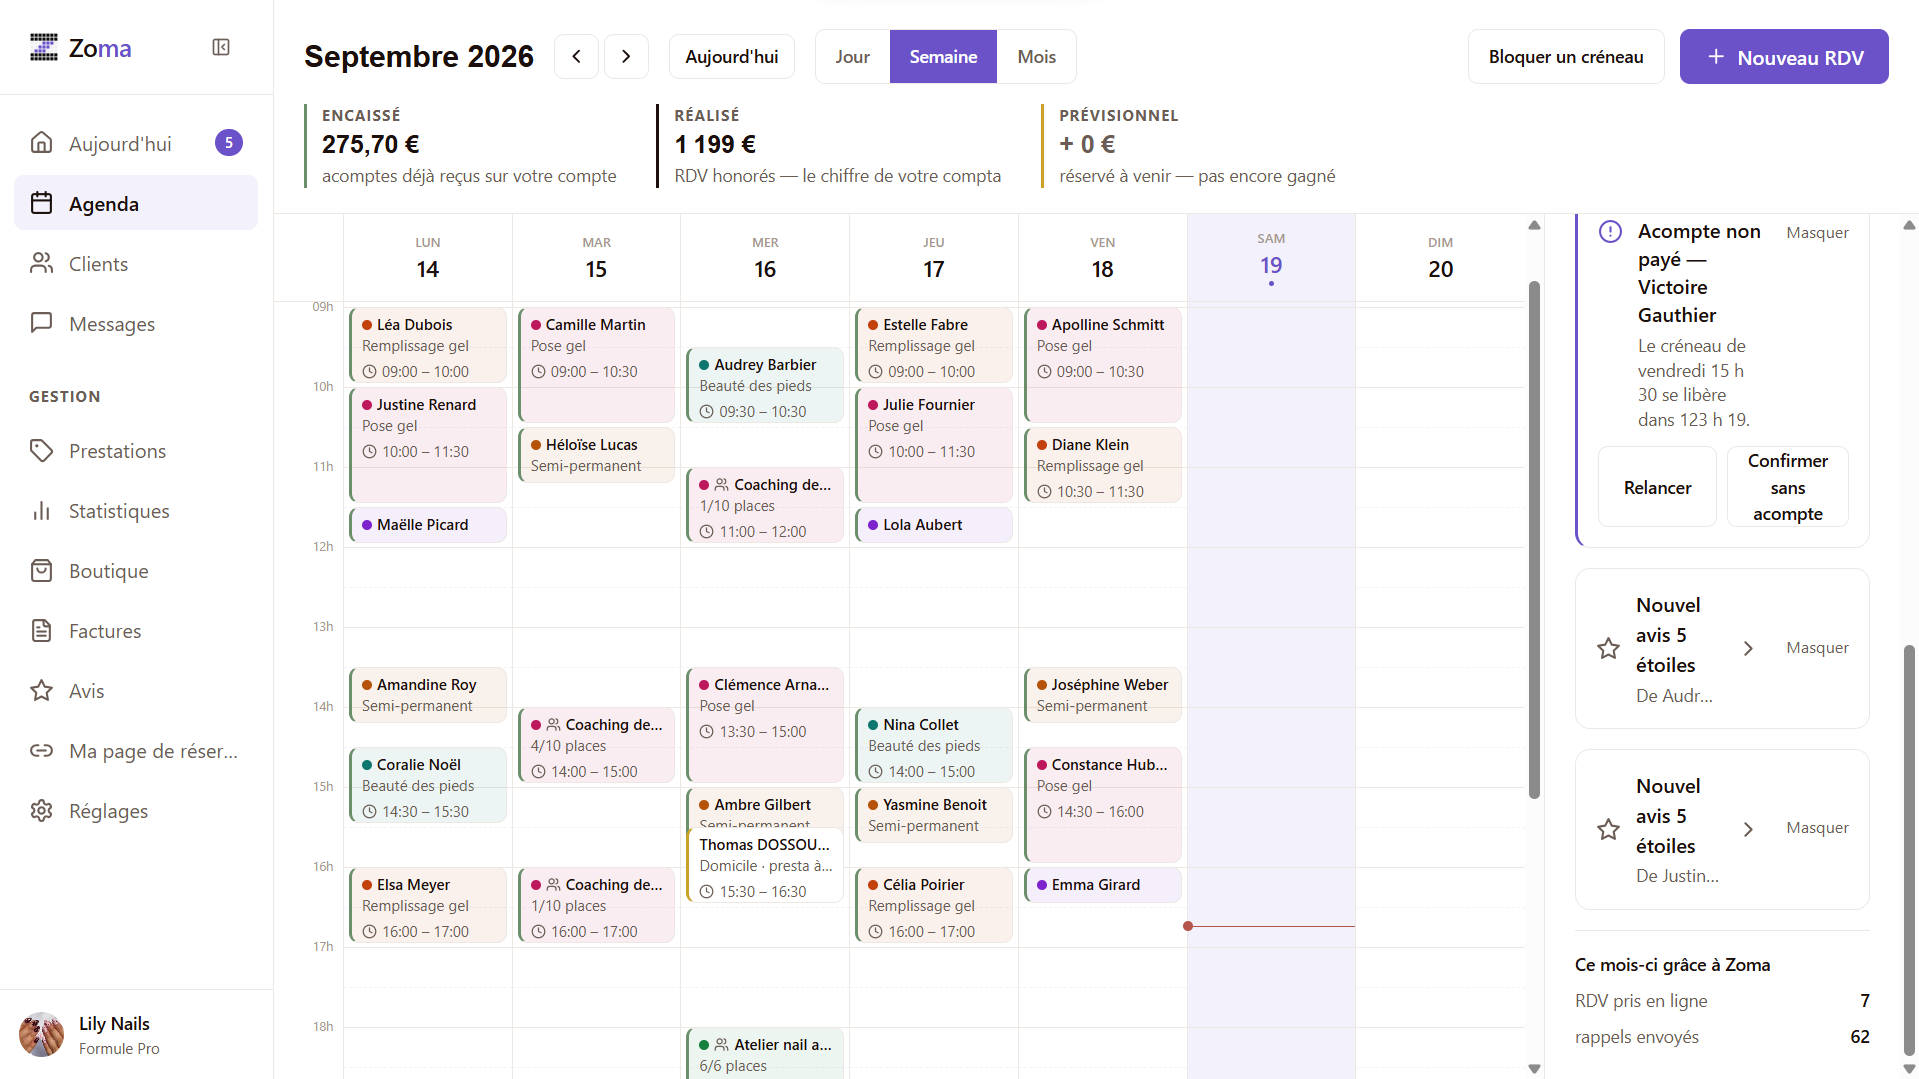
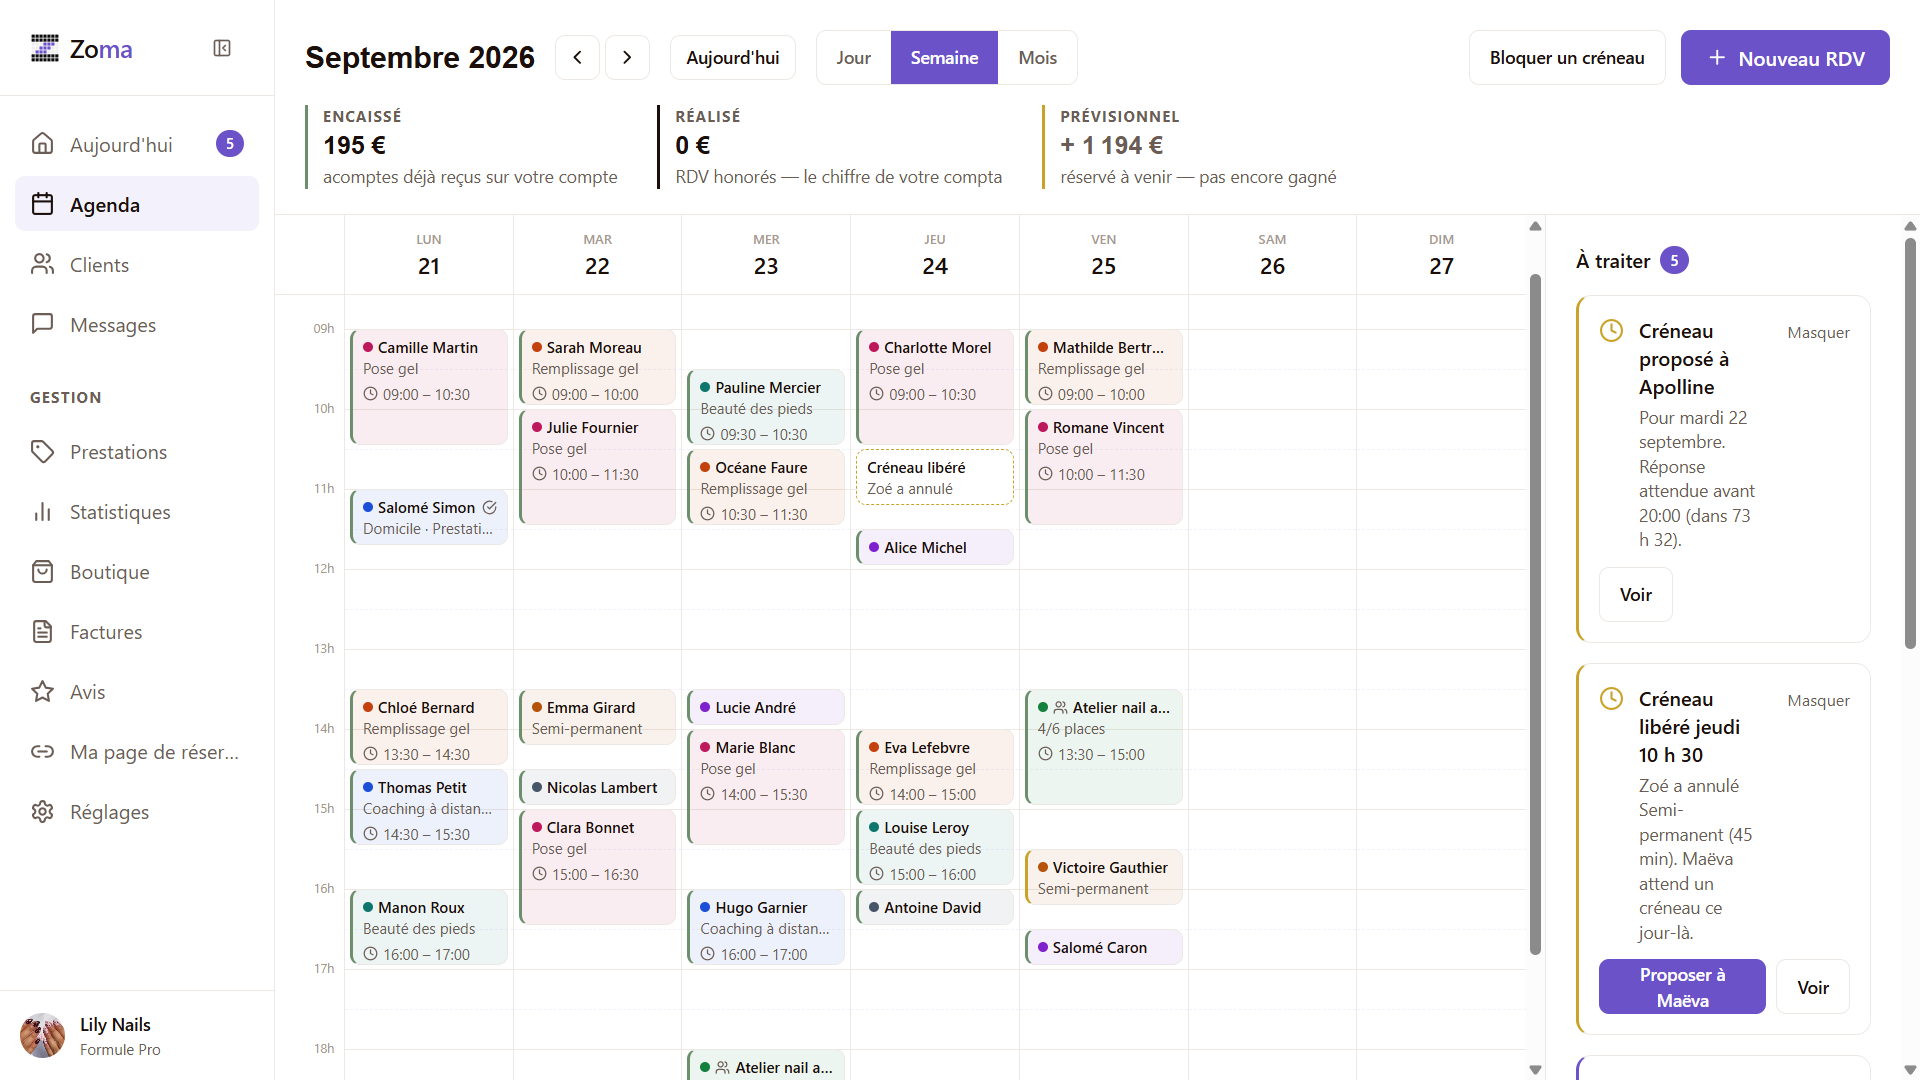
feat(vitrine): nouvelle capture de l'agenda (1920×1080) avec atelier collectif, domicile et coaching à distance
Dimensions, lightbox et textes alternatifs ajustés ; suffixe ?v=3 sur l'image pour contourner le cache.

diff --git a/index.html b/index.html
@@ -236,7 +236,7 @@
   .shot-zoom{position:absolute;right:12px;bottom:12px;display:inline-flex;align-items:center;gap:.4rem;font-size:.8rem;font-weight:600;color:var(--terra-deep);background:rgba(255,255,255,.92);border:1px solid var(--line);border-radius:999px;padding:.35rem .75rem;pointer-events:none;box-shadow:var(--shadow-sm)}
   .lightbox{position:fixed;inset:0;z-index:200;background:rgba(27,21,51,.92);display:flex;align-items:center;justify-content:center;padding:28px;cursor:zoom-out;animation:fade .25s ease}
   .lightbox[hidden]{display:none}
-  .lightbox img{max-width:min(1919px,96vw);max-height:92vh;width:auto;height:auto;border-radius:14px;box-shadow:0 30px 90px -20px rgba(0,0,0,.6);background:var(--white)}
+  .lightbox img{max-width:min(1920px,96vw);max-height:92vh;width:auto;height:auto;border-radius:14px;box-shadow:0 30px 90px -20px rgba(0,0,0,.6);background:var(--white)}
   .lightbox-close{position:absolute;top:18px;right:22px;background:rgba(255,255,255,.12);border:1px solid rgba(255,255,255,.3);color:#fff;width:42px;height:42px;border-radius:50%;font-size:1.4rem;line-height:1;cursor:pointer}
 
   /* ---------- Sections ---------- */
@@ -482,8 +482,8 @@
 
       <div class="reveal device" style="transition-delay:.12s">
         <div class="device-bar"><span class="dot"></span><span class="dot"></span><span class="dot"></span><span class="title">Mon agenda</span></div>
-        <a class="shot-link" href="/assets/app-agenda.png" aria-label="Agrandir la capture de l'agenda Zoma">
-          <img class="device-shot" src="/assets/app-agenda.png" alt="Agenda Zoma : vue de la semaine avec les rendez-vous confirmés d'un professionnel indépendant" width="1919" height="1079" fetchpriority="high" />
+        <a class="shot-link" href="/assets/app-agenda.png?v=3" aria-label="Agrandir la capture de l'agenda Zoma">
+          <img class="device-shot" src="/assets/app-agenda.png?v=3" alt="Agenda Zoma : vue de la semaine d'une prothésiste ongulaire, avec rendez-vous en salon, à domicile, à distance et ateliers collectifs" width="1920" height="1080" fetchpriority="high" />
           <span class="shot-zoom"><svg width="14" height="14" viewBox="0 0 24 24" fill="none" stroke="currentColor" stroke-width="2.4"><circle cx="11" cy="11" r="7"/><line x1="21" y1="21" x2="16.5" y2="16.5"/><line x1="11" y1="8" x2="11" y2="14"/><line x1="8" y1="11" x2="14" y2="11"/></svg> Agrandir</span>
         </a>
       </div>
@@ -856,7 +856,7 @@
 <!-- ============ LIGHTBOX (capture agenda) ============ -->
 <div class="lightbox" id="lightbox" role="dialog" aria-modal="true" aria-label="Capture de l'agenda Zoma en grand" hidden>
   <button class="lightbox-close" aria-label="Fermer">✕</button>
-  <img src="/assets/app-agenda.png" alt="Agenda Zoma en grand : vue de la semaine avec les rendez-vous confirmés" loading="lazy" />
+  <img src="/assets/app-agenda.png?v=3" alt="Agenda Zoma en grand : vue de la semaine avec rendez-vous en salon, à domicile, à distance et ateliers collectifs" loading="lazy" />
 </div>
 
 <script>
